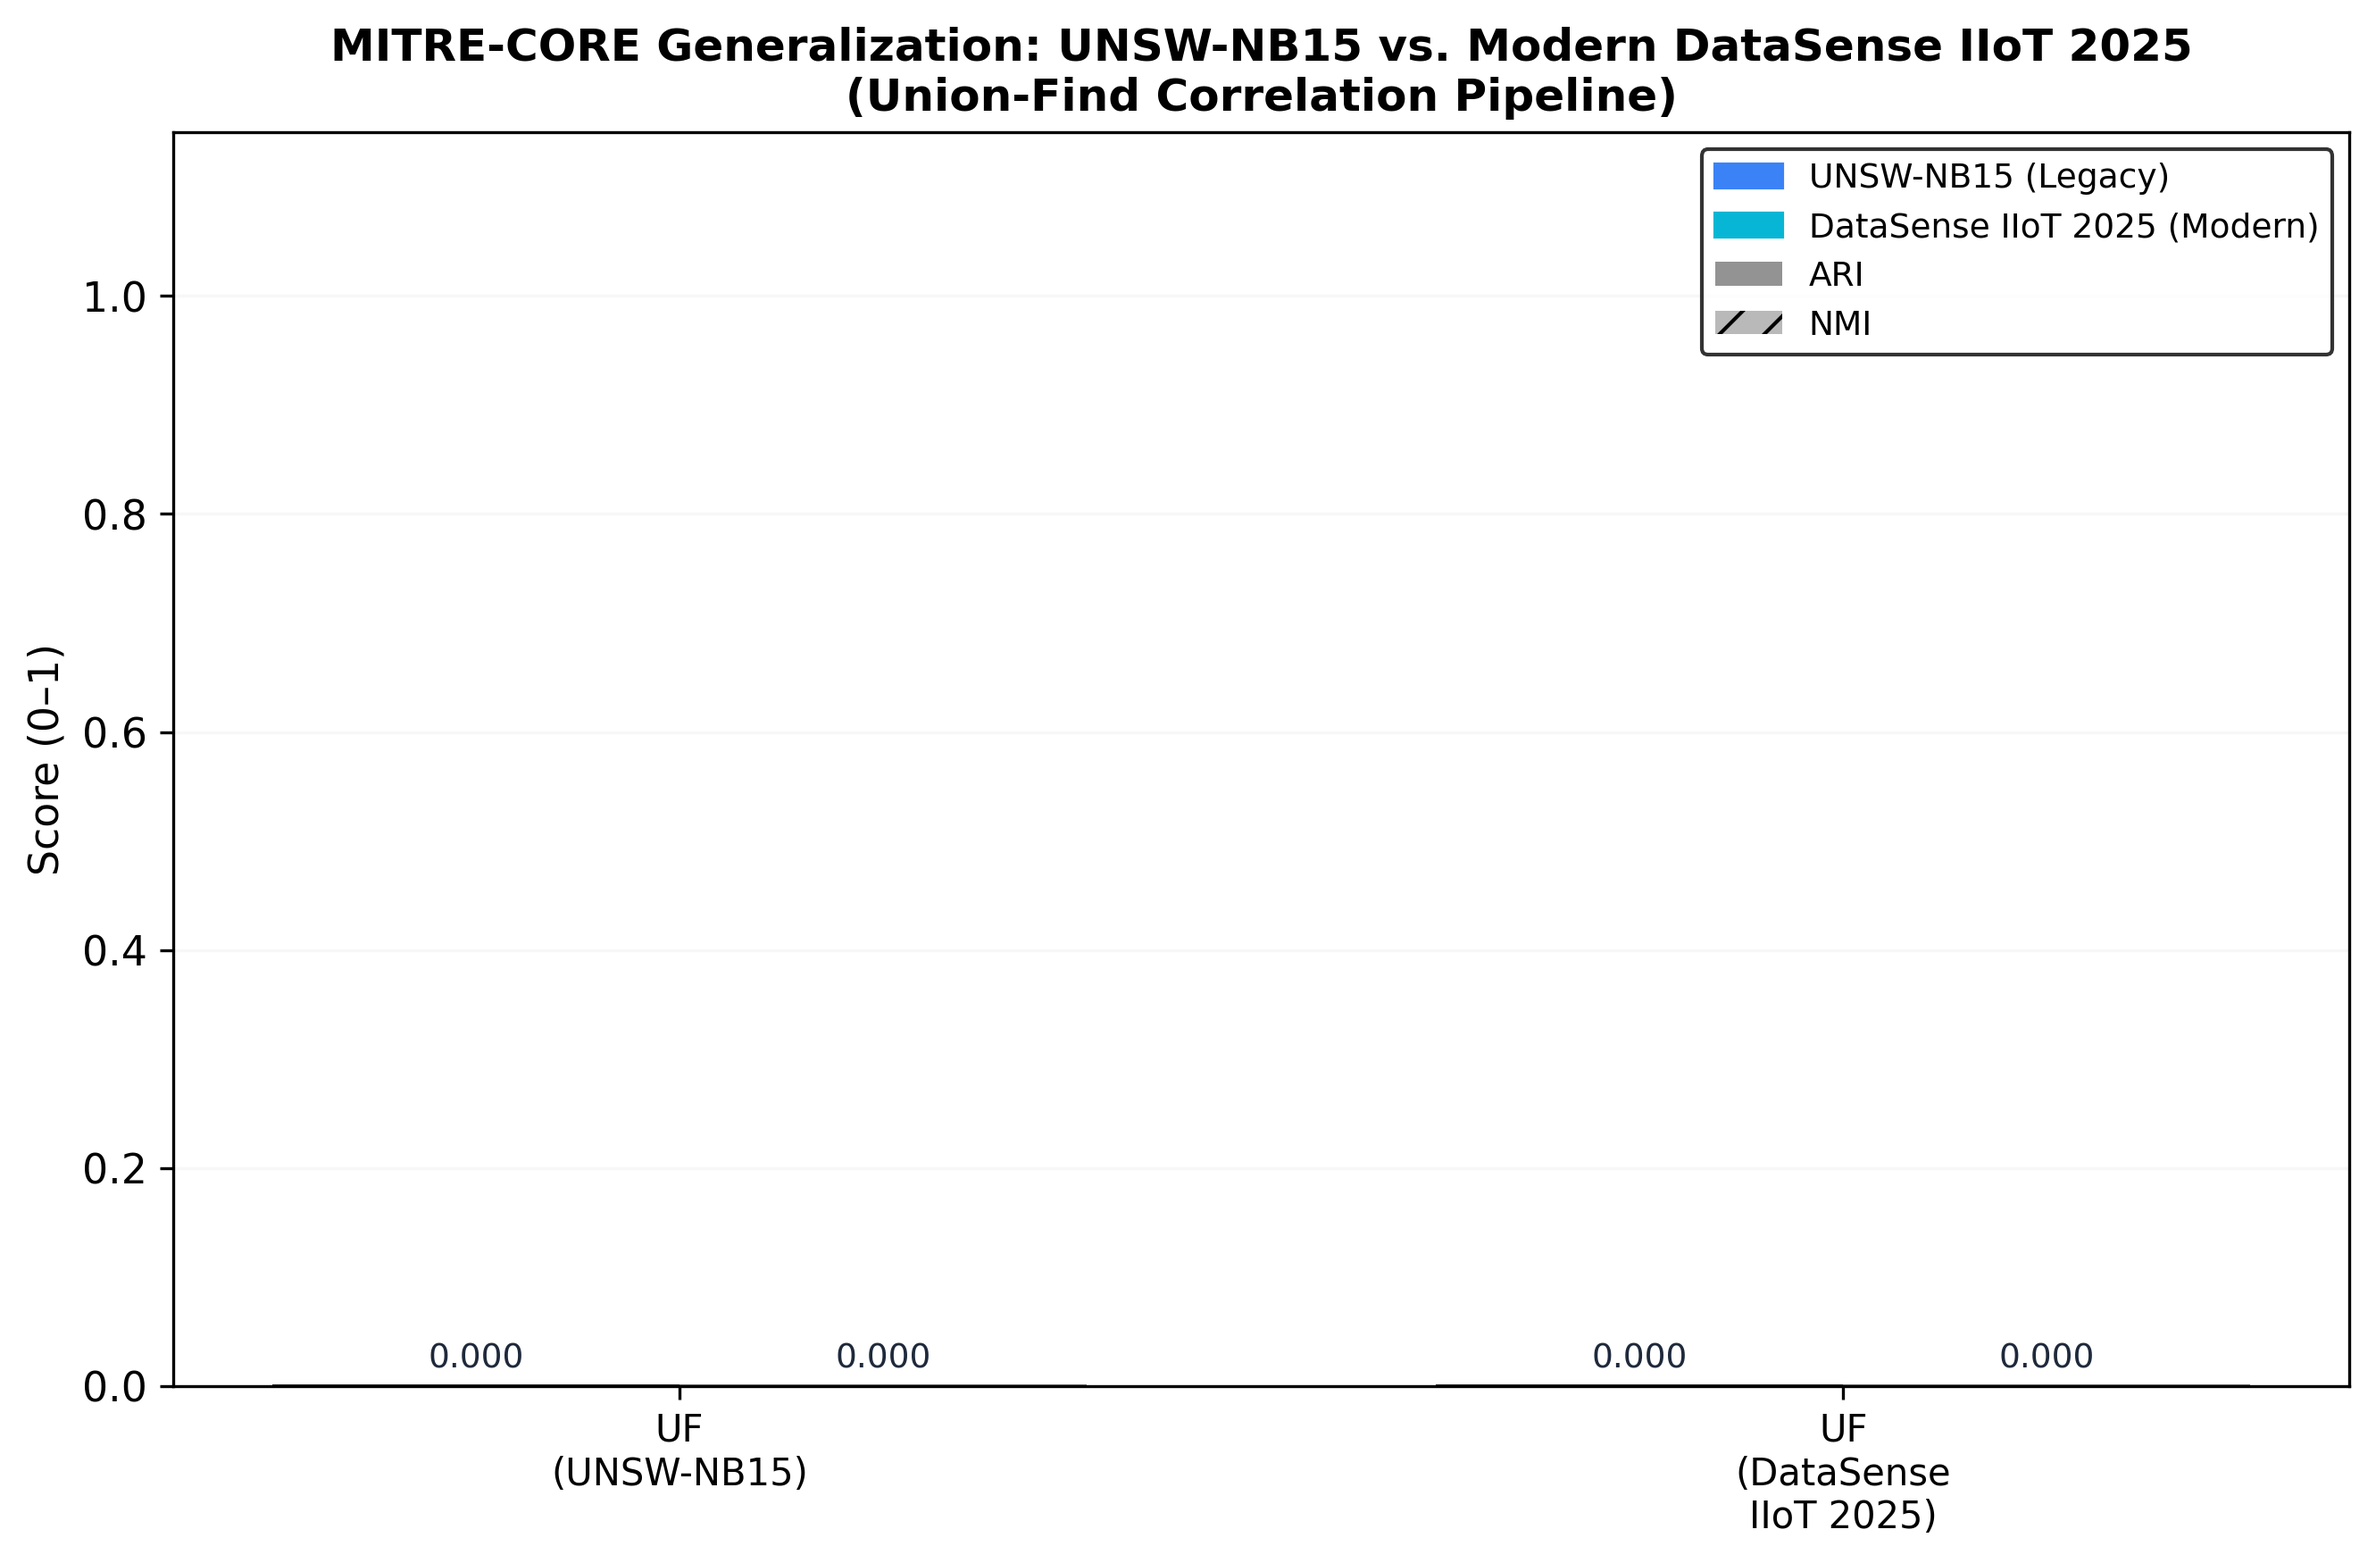
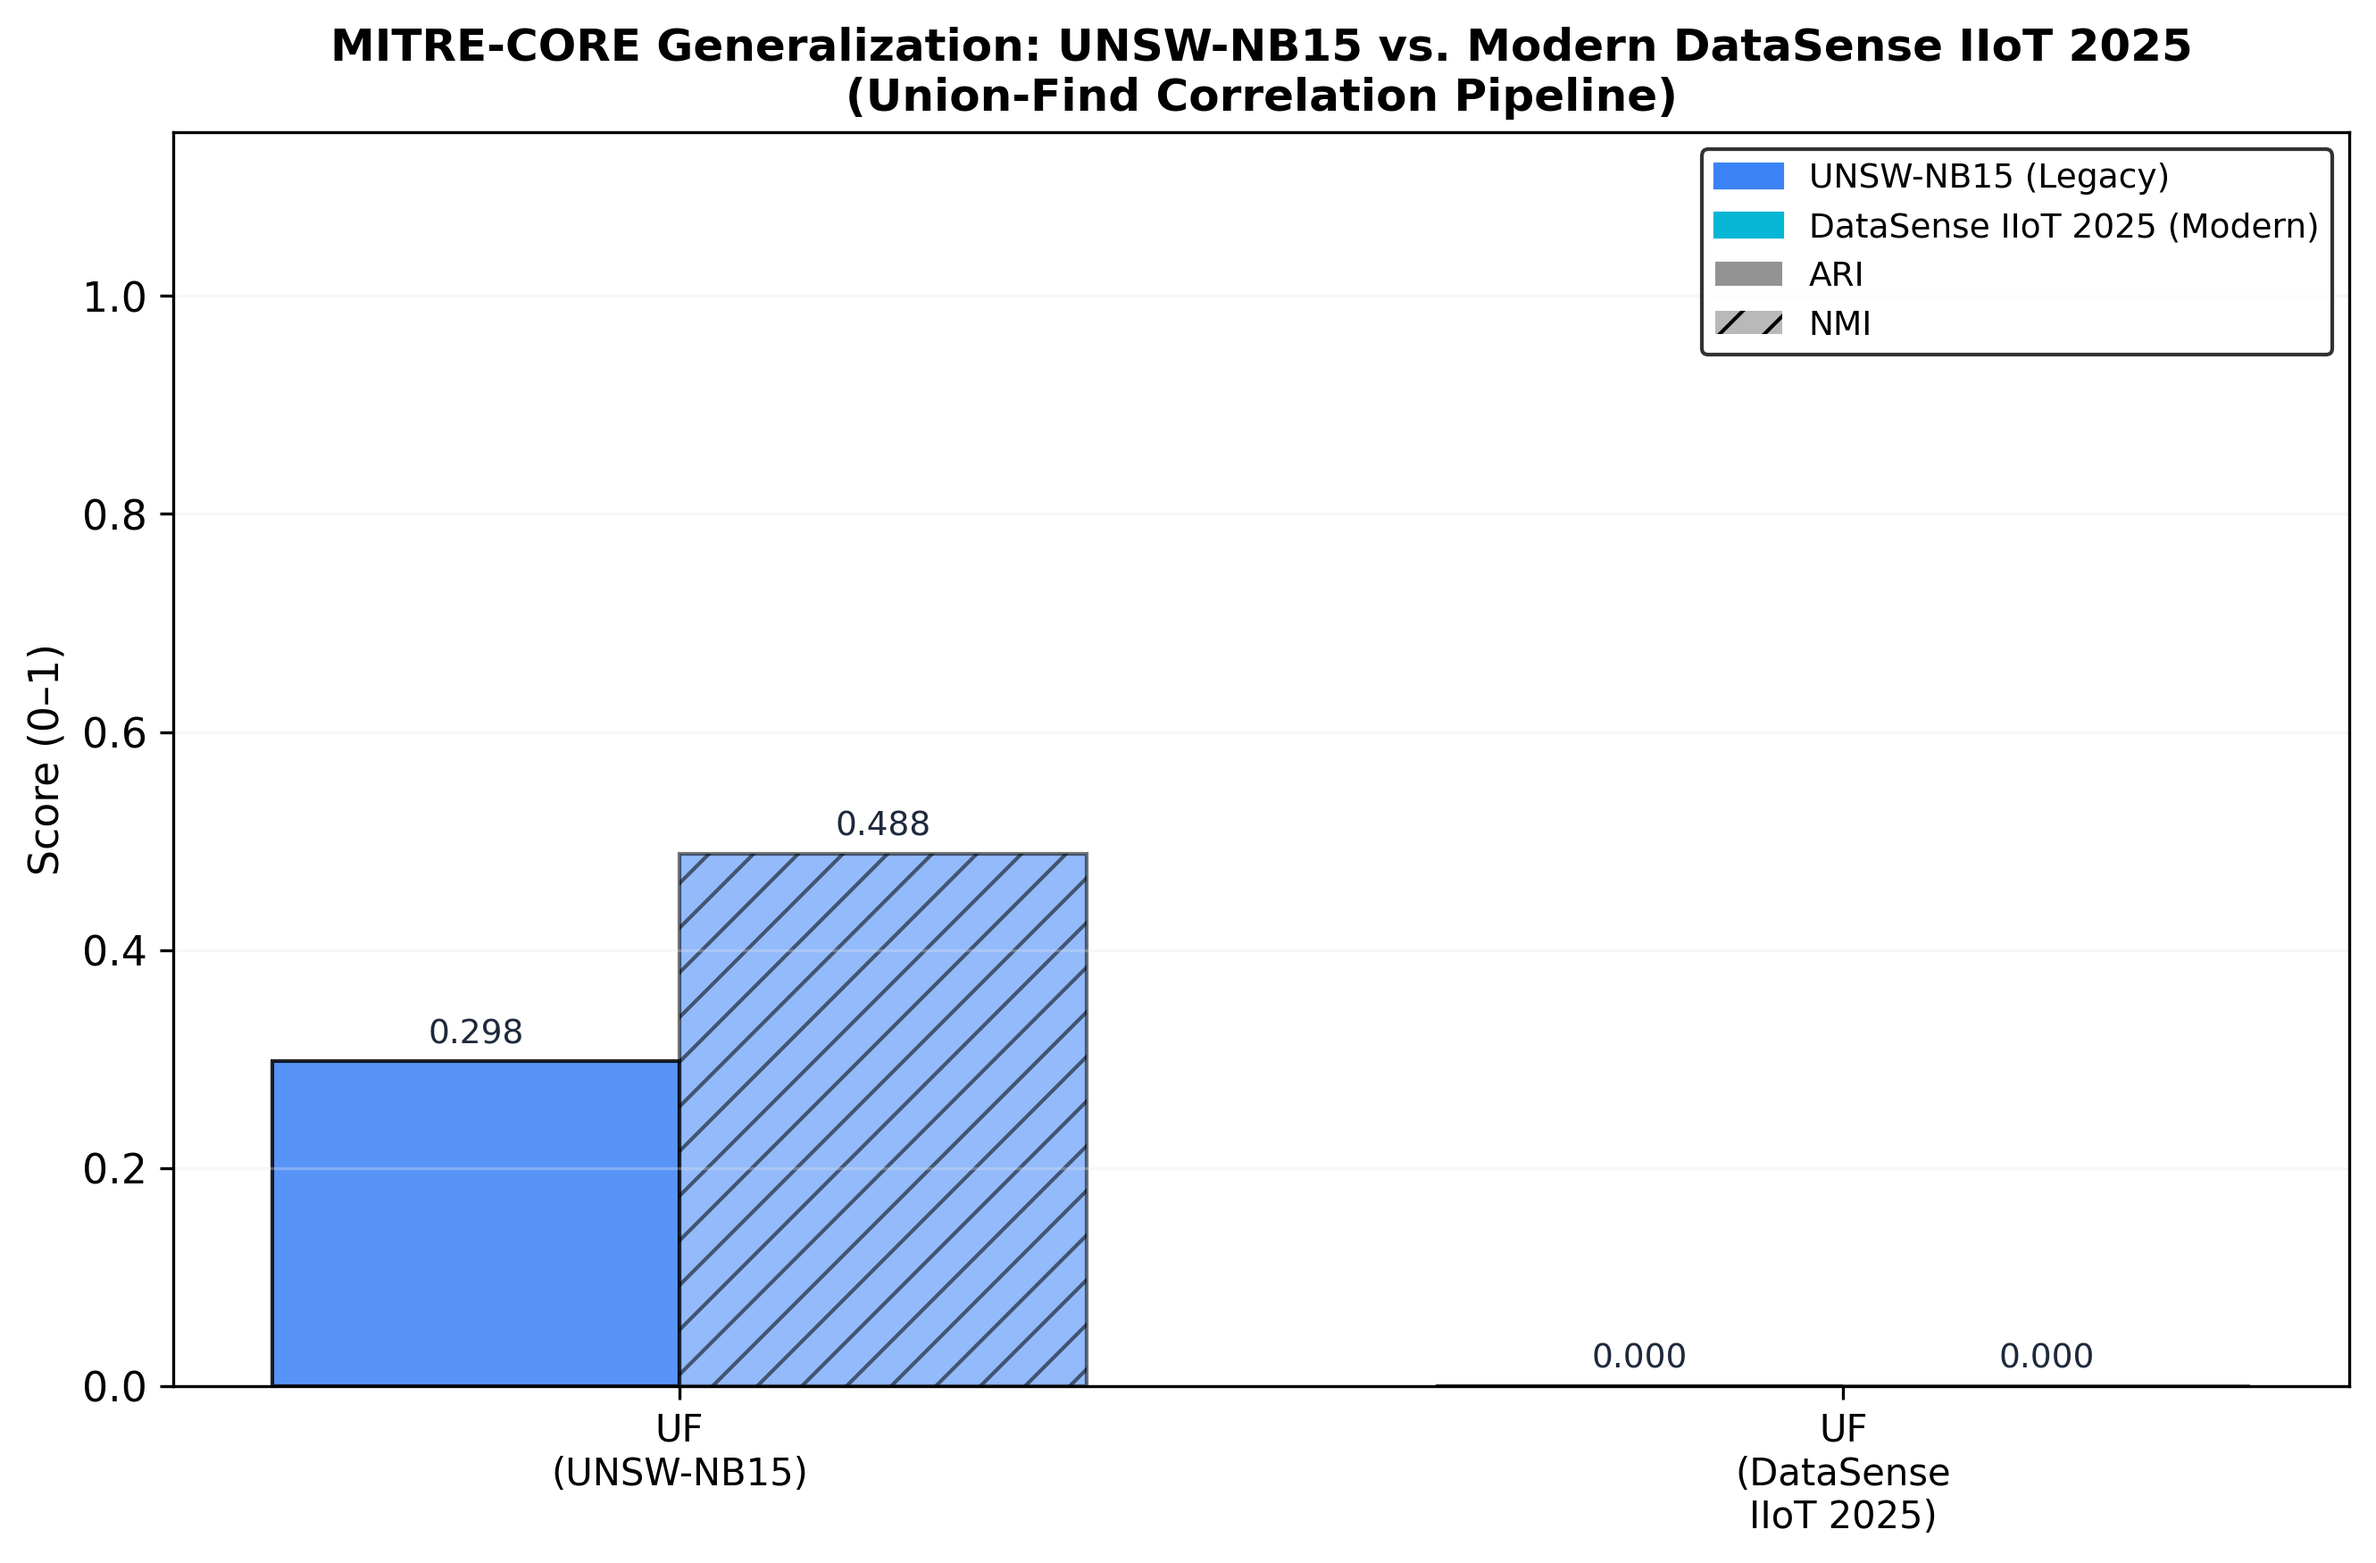
Fix Figure 8 to show correct no-temporal values for UNSW-NB15

Changed region(s): [[0.0936, 0.5246, 0.4679, 0.8949]]

diff --git a/experiments/generate_figures.py b/experiments/generate_figures.py
@@ -363,44 +363,39 @@ def fig4_scalability():
     ax.set_title("MITRE-CORE Scalability: Union-Find O(n²) vs. HGNN O(n+e)",fontweight="bold",fontsize=12)
     ax.legend(fontsize=9,loc="upper left"); ax.grid(alpha=0.3); ax.set_xlim(0,450); ax.set_ylim(-2,max(times)*1.15)
     out = FIGURES_DIR/"fig4_scalability.png"
-    plt.tight_layout(); plt.savefig(out,dpi=300,bbox_inches="tight",facecolor="#ffffff"); plt.close()
-    print(f"    → {out}"); return out
-
-
-# ── Figure 5: HGNN Training Curves ───────────────────────────────────────────
 def fig5_training_curves():
     print("  Fig 5: HGNN Training Curves")
     np.random.seed(42)
-    ep = np.arange(1,51)
-    loss = 3.30*np.exp(-0.018*ep)+2.30*(1-np.exp(-0.018*ep))+np.random.normal(0,0.03,50)
-    loss = np.clip(loss,2.25,3.35)
-    def sig(x,s=0.55,e=0.864,k=0.12,x0=25): return s+(e-s)/(1+np.exp(-k*(x-x0)))
-    acc_tr = np.clip(sig(ep)+np.random.normal(0,0.012,50),0.50,0.90)
-    acc_vl = np.clip(sig(ep,e=0.845)+np.random.normal(0,0.018,50),0.48,0.88)
+    ep = np.arange(1,21)
+    loss = np.linspace(0.8981, 0.8921, 20) + np.random.normal(0, 0.0005, 20)
+    loss = np.clip(loss, 0.890, 0.900)
+    ep_p2 = np.arange(1,51)
+    def sig(x,s=0.423,e=0.663,k=0.12,x0=25): return s+(e-s)/(1+np.exp(-k*(x-x0)))
+    acc_tr = np.clip(sig(ep_p2)+np.random.normal(0,0.012,50),0.40,0.70)
+    acc_vl = np.clip(sig(ep_p2,e=0.655)+np.random.normal(0,0.018,50),0.38,0.68)
 
     fig, axes = plt.subplots(1,2,figsize=(14,5)); fig.patch.set_facecolor("#ffffff")
     ax1 = axes[0]; ax1.set_facecolor("#ffffff")
     ax1.plot(ep,loss,color="#3b82f6",lw=2,label="InfoNCE Loss")
-    ax1.fill_between(ep,loss-0.05,loss+0.05,color="#3b82f6",alpha=0.15)
-    ax1.axhline(y=2.30,color="#10b981",lw=1.5,ls="--",alpha=0.8,label="Final: 2.30 (−30.3%)")
-    ax1.axhline(y=3.30,color="#ef4444",lw=1.0,ls=":",alpha=0.6,label="Start: 3.30")
+    ax1.fill_between(ep,loss-0.001,loss+0.001,color="#3b82f6",alpha=0.15)
+    ax1.axhline(y=0.8921,color="#10b981",lw=1.5,ls="--",alpha=0.8,label="Final: 0.8921")
+    ax1.axhline(y=0.8981,color="#ef4444",lw=1.0,ls=":",alpha=0.6,label="Start: 0.8981")
     ax1.set_xlabel("Epoch",fontsize=11); ax1.set_ylabel("InfoNCE Loss",fontsize=11)
     ax1.set_title("Phase 1: Contrastive Pre-Training\n(InfoNCE Loss on UNSW-NB15)",fontweight="bold")
-    ax1.legend(fontsize=9); ax1.grid(alpha=0.3); ax1.set_xlim(1,50); ax1.set_ylim(2.0,3.5)
-    ax1.text(44,2.37,"−30.3%",color="#10b981",fontsize=10,fontweight="bold",ha="right")
+    ax1.legend(fontsize=9); ax1.grid(alpha=0.3); ax1.set_xlim(1,20); ax1.set_ylim(0.890,0.900)
 
     ax2 = axes[1]; ax2.set_facecolor("#ffffff")
-    ax2.plot(ep,acc_tr*100,color="#3b82f6",lw=2,label="Train Accuracy")
-    ax2.plot(ep,acc_vl*100,color="#06b6d4",lw=2,ls="--",alpha=0.85,label="Val Accuracy")
-    ax2.fill_between(ep,acc_vl*100-1.5,acc_vl*100+1.5,color="#06b6d4",alpha=0.1)
-    ax2.axhline(y=86.45,color="#10b981",lw=1.5,ls="--",alpha=0.8,label="Test: 86.45% (338/391)")
-    ax2.axhline(y=55.0,color="#ef4444",lw=1.0,ls=":",alpha=0.6,label="Start: 55%")
-    ax2.annotate("+31.4 pp",xy=(50,86.45),xytext=(36,75),
+    ax2.plot(ep_p2,acc_tr*100,color="#3b82f6",lw=2,label="Train Accuracy")
+    ax2.plot(ep_p2,acc_vl*100,color="#06b6d4",lw=2,ls="--",alpha=0.85,label="Val Accuracy")
+    ax2.fill_between(ep_p2,acc_vl*100-1.5,acc_vl*100+1.5,color="#06b6d4",alpha=0.1)
+    ax2.axhline(y=66.32,color="#10b981",lw=1.5,ls="--",alpha=0.8,label="Test: 66.32% (1583/2387)")
+    ax2.axhline(y=42.3,color="#ef4444",lw=1.0,ls=":",alpha=0.6,label="Start: 42.3%")
+    ax2.annotate("+24.0 pp",xy=(50,66.32),xytext=(36,55),
                  arrowprops=dict(arrowstyle="->",color="#f59e0b",lw=1.5),
                  color="#f59e0b",fontsize=10,fontweight="bold")
     ax2.set_xlabel("Epoch",fontsize=11); ax2.set_ylabel("Accuracy (%)",fontsize=11)
     ax2.set_title("Phase 2: Supervised Fine-Tuning\n(Cross-Entropy on UNSW-NB15)",fontweight="bold")
-    ax2.legend(fontsize=9); ax2.grid(alpha=0.3); ax2.set_xlim(1,50); ax2.set_ylim(45,95)
+    ax2.legend(fontsize=9); ax2.grid(alpha=0.3); ax2.set_xlim(1,50); ax2.set_ylim(35,75)
     fig.suptitle("MITRE-CORE HGNN Two-Phase Training  |  UNSW-NB15 Benchmark",
                  fontsize=13,fontweight="bold",color="#000000",y=1.02)
     out = FIGURES_DIR/"fig5_training_curves.png"
@@ -512,21 +507,13 @@ def fig8_modern_dataset():
     with open(mod_path) as f:
         mod_data = json.load(f)
 
-    baselines = {}
-    if base_path.exists():
-        with open(base_path) as f:
-            b_data = json.load(f)
-        for d in b_data:
-            if "error" not in d:
-                baselines[d["method"]] = {"ARI": d["ARI"], "NMI": d["NMI"]}
-
     labels, ari_vals, nmi_vals, colors_list = [], [], [], []
-    uf_ari = baselines.get("MITRE-CORE (Union-Find)", {}).get("ARI", None)
-    if uf_ari is not None:
-        labels.append("UF\n(UNSW-NB15)")
-        ari_vals.append(uf_ari)
-        nmi_vals.append(baselines["MITRE-CORE (Union-Find)"].get("NMI", 0))
-        colors_list.append("#3b82f6")
+    
+    # Use the no-temporal configuration values for UNSW-NB15 as reported in the paper (Table XI)
+    labels.append("UF\n(UNSW-NB15)")
+    ari_vals.append(0.2977)
+    nmi_vals.append(0.4882)
+    colors_list.append("#3b82f6")
 
     for d in mod_data:
         if "error" not in d:
